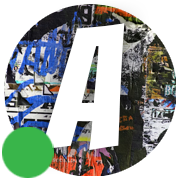
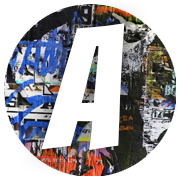
commit pour pull

Changed region(s): [[0.0, 0.6944, 0.3056, 1.0]]

diff --git a/client/src/components/adminValidationCard/adminValidationCard.css b/client/src/components/adminValidationCard/adminValidationCard.css
@@ -1,6 +1,6 @@
 .body-admin-validation {
   justify-items: center;
-  background-image: url("../../../backgroundAdmin.jpg");
+  background-image: url("../../../background-white.jpg");
   background-size: cover;
   background-position: center;
   width: 100vw;
@@ -18,12 +18,15 @@
   gap: 20px;
   padding: 20px;
   width: 450px;
-
-  box-shadow: 4px 4px 6px rgba(0, 0, 0, 0.658);
 }
 
 .new-street-art-photo {
   width: 380px;
+  border-radius: 12px;
+}
+
+.graphic-element {
+  width: 75px;
 }
 
 .street-art-info {
@@ -32,8 +35,17 @@
   color: white;
   font-size: 1.2rem;
   justify-content: center;
-  text-align: center;
   gap: 24px;
+  margin-bottom: 24px;
+}
+
+.street-art-info input {
+  margin-left: 16px;
+  border-radius: 4px;
+  border-style: none;
+  padding: 8px;
+  font-family: var(--primary-font);
+  font-weight: 500;
 }
 
 .points {
@@ -71,17 +83,33 @@
   justify-items: center;
   gap: 16px;
   height: 45px;
+  justify-content: center;
 }
 
 .brown-button-admin {
   border-radius: 8px;
   border-style: none;
-  background-color: rgba(182, 188, 149, 1);
+  background-color: rgb(255 255 255);
+  color: #22b573;
+  font-size: 1.2rem;
+  padding: 12px;
+  font-family: var(--primary-font);
+  text-align: center;
+  width: 170px;
+  font-weight: 600;
+}
+
+.brown-button-admin-ban {
+  border-radius: 8px;
+  border-style: none;
+  background-color: rgb(27 27 27);
   color: white;
   font-size: 1.2rem;
-  padding: 14px;
-  box-shadow: 2px 2px 5px rgba(0, 0, 0, 0.658);
+  padding: 12px;
   font-family: var(--primary-font);
+  text-align: center;
+  width: 350px;
+  font-weight: 600;
 }
 
 .brown-button-admin:hover {

diff --git a/client/src/components/adminValidationCard/adminValidationCard.tsx b/client/src/components/adminValidationCard/adminValidationCard.tsx
@@ -144,10 +144,15 @@ export function AdminValidationBoard() {
               alt="Street Art representation sent by user"
               className="new-street-art-photo"
             />
+            <img
+              className="graphic-element"
+              src="/forme_blanche.png"
+              alt="graphic element"
+            />
             <form action="submit" onSubmit={handleValidation}>
               <section className="street-art-info">
                 <label>
-                  titre
+                  Titre :
                   <input
                     className="titre"
                     name="titre"
@@ -156,7 +161,7 @@ export function AdminValidationBoard() {
                   />
                 </label>{" "}
                 <label>
-                  description :
+                  Description :
                   <input
                     className="comment"
                     name="commentaire"
@@ -191,7 +196,7 @@ export function AdminValidationBoard() {
             </form>
             <button
               type="button"
-              className="brown-button-admin"
+              className="brown-button-admin-ban"
               onClick={handleBan}
             >
               {banUser ? "Utilisateur banni" : "Bannir l'utilisateur"}

diff --git a/client/src/components/lost/Lost.css b/client/src/components/lost/Lost.css
@@ -9,27 +9,33 @@
 .report-text {
   margin: 50px;
   font-size: 40px;
+  font-family: var(--secondary-font);
+  font-weight: 550;
+  letter-spacing: 1.1px;
 }
 .h1-circle-lost {
   display: flex;
   align-items: center;
 }
 .circle-lost {
-  align-items: center;
   width: 40px;
   height: 40px;
   background-color: #d9d9d9;
   border-radius: 50%;
+  padding: 7px;
 }
 .circle-lost > p {
   font-size: 20px;
-  color: #ff1717;
-  padding: 10px 0 0 10px;
+  color: #22b573;
+  font-family: var(--primary-font);
+  font-weight: 600;
+  text-align: center;
 }
 .works-consulting {
   display: flex;
   justify-content: center;
   margin-bottom: 50px;
+  font-family: var(--primary-font);
 }
 .brushstroke-h1-lost {
   display: none;
@@ -41,7 +47,10 @@
   max-width: 900px;
 
   background-color: #22b573;
+  font-family: var(--primary-font);
+  padding: 10px;
   border-radius: 24px;
+  font-weight: 600;
 }
 .container {
   display: flex;
@@ -112,7 +121,7 @@
 }
 .my-right-button-lost > img,
 .my-left-button-lost > img {
-  height: 40px;
+  height: 30px;
 }
 .my-left-button-lost > img {
   transform: rotate(180deg);

diff --git a/client/src/components/gallery/Gallery.tsx b/client/src/components/gallery/Gallery.tsx
@@ -33,7 +33,7 @@ function Gallery() {
         <img
           className="traith1"
           src="/trait-h1-artwork.tsx.png"
-          alt="background gray if from lighter to darker"
+          alt="graphic element"
         />
 
         <select className="city" name="city" onChange={handleSelect}>

diff --git a/client/src/components/Notifications/NotificationsCenter.component.css b/client/src/components/Notifications/NotificationsCenter.component.css
@@ -41,7 +41,7 @@
   padding: 12px;
   border: 2px solid rgba(22, 22, 22, 0.666);
   font-family: Montserrat, serif;
-  background-color: #39b54a;
+  background-color: #22b573;
   color: white;
   border-radius: 12px 0px;
   font-weight: 500;

diff --git a/client/src/components/gallery/Gallery.css b/client/src/components/gallery/Gallery.css
@@ -50,7 +50,7 @@
   display: flex;
   flex-direction: column;
   align-items: center;
-  background-color: #39b54a;
+  background-color: #22b573;
   padding: 14px;
   height: auto;
   gap: 10px;
